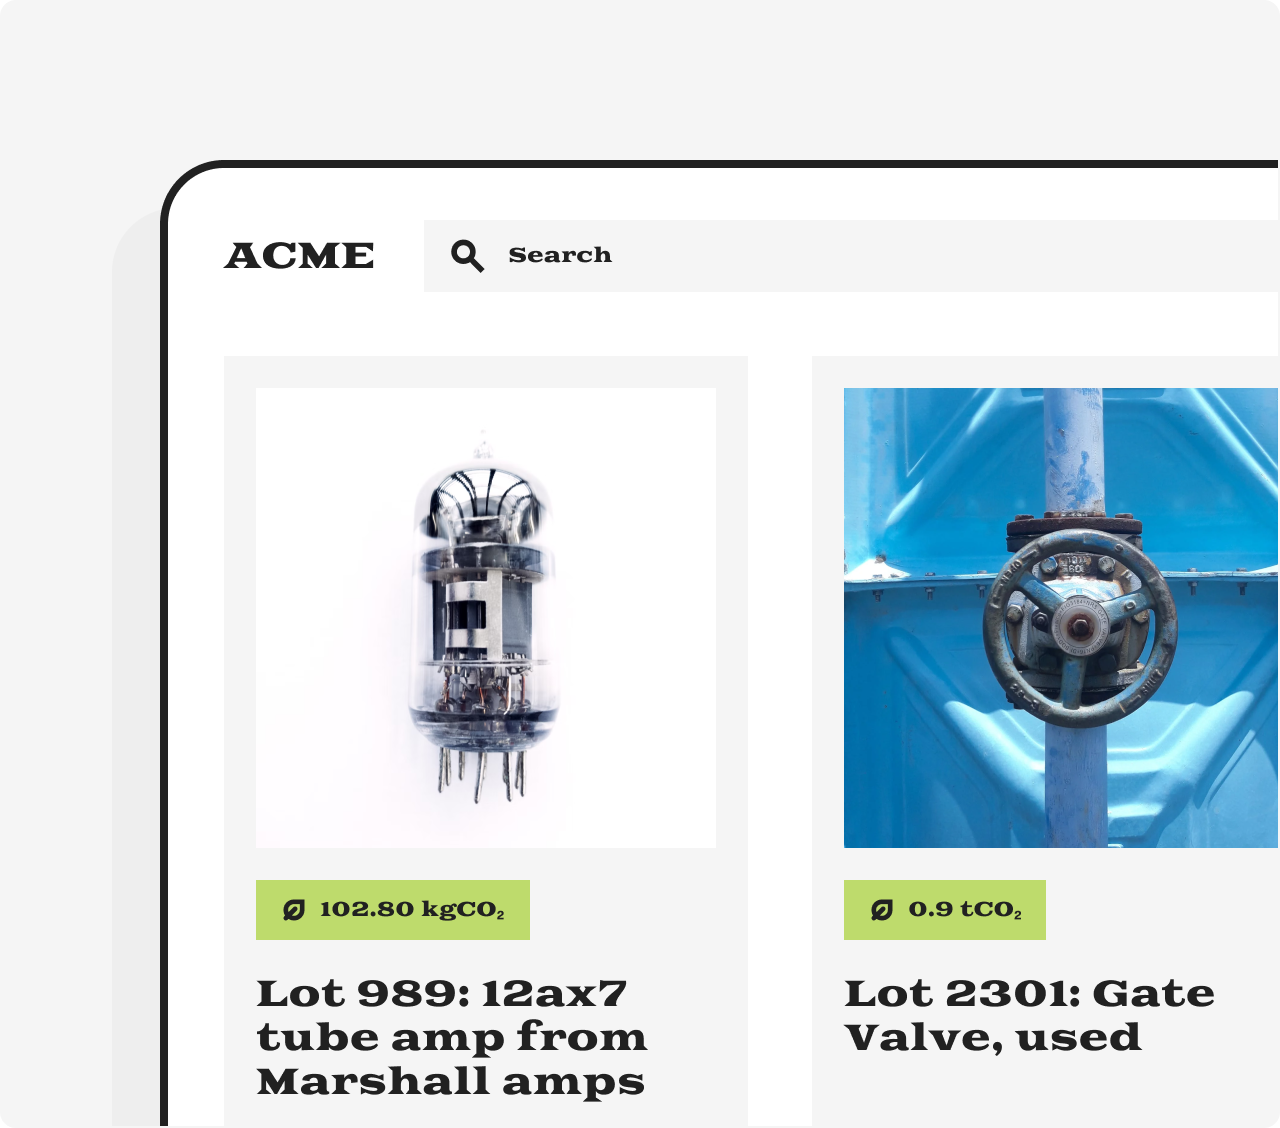
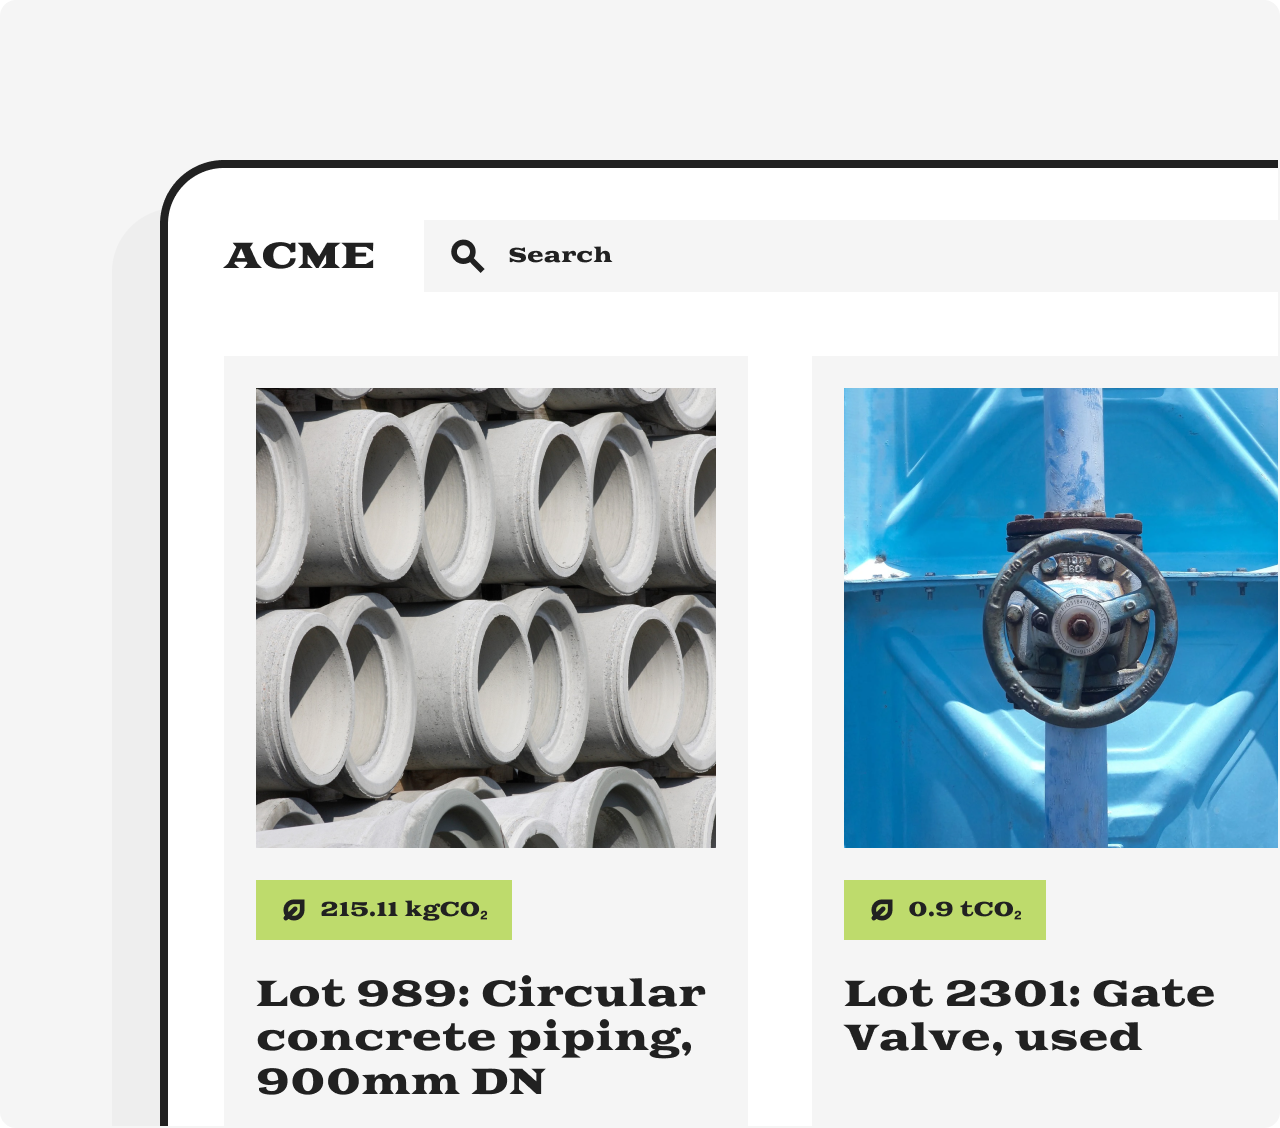
Make images and copy consistent

Changed region(s): [[0.1875, 0.3413, 0.5625, 0.8378], [0.1875, 0.8688, 0.5625, 0.9929]]

diff --git a/docs/guides/integrate-procurement.md b/docs/guides/integrate-procurement.md
@@ -294,7 +294,7 @@ To enable your buyer to offset a product's emissions, [place an order by mass](/
   -X POST \
   -d '{
   "mass": {
-    "amount": "8200",
+    "amount": "215.11",
     "unit": "kg"
   }
 }'`} />
@@ -303,37 +303,37 @@ To enable your buyer to offset a product's emissions, [place an order by mass](/
     header="Sample response"
     language="json"
     code={`{
-  "id": "xLZ6q1PJvBeOzyWOXD3yoWkbAjnK38lE",
+  "id": "mWxruXo29eGqzA14agjpNL5PwnkgaO8R",
   "metadata": {},
   "idempotency_key": null,
   "type": "quantity",
   "status": "placed",
   "currency": "USD",
-  "offset_cost": "174.01",
-  "total_cost": "193.35",
-  "commission": "19.34",
-  "quantity": "8.2",
+  "offset_cost": "4.55",
+  "total_cost": "5.06",
+  "commission": "0.51",
+  "quantity": "0.215109",
   "payment_method": "invoice",
-  "created_at": "2023-05-16T12:49:06.194Z",
+  "created_at": "2023-05-22T14:48:51.857Z",
   "bundles": [
     {
       "bundle_id": "q9aKx7b6nNXMk3Yv3pD1mlW5Od2eLZE8",
       "bundle_name": "Conserving forests in Asia",
       "primary_image": "https://assets.lune.co/bundles/asia-forestry.png",
-      "quantity": "7.79",
-      "unit_price": "9.18",
-      "gross_unit_price": "10.2",
-      "offset_cost": "71.52",
+      "quantity": "0.204354",
+      "unit_price": "9.13",
+      "gross_unit_price": "10.14",
+      "offset_cost": "1.87",
       "insufficient_available_quantity": null
     },
     {
       "bundle_id": "xWaKJL3okjD46VpJ4yGXnQNZRe1vzP0w",
       "bundle_name": "Ocean Carbon Removal",
       "primary_image": "https://assets.lune.co/bundles/seaweed-sequestration.png",
-      "quantity": "0.41",
+      "quantity": "0.010755",
       "unit_price": "250",
       "gross_unit_price": "277.78",
-      "offset_cost": "102.5",
+      "offset_cost": "2.69",
       "insufficient_available_quantity": null
     }
   ],
@@ -343,7 +343,7 @@ To enable your buyer to offset a product's emissions, [place an order by mass](/
   "offset_link_id": null,
   "email": null,
   "estimate_id": null,
-  "requested_quantity": "8.2",
+  "requested_quantity": "0.21511",
   "requested_value": null
 }`} />
 
